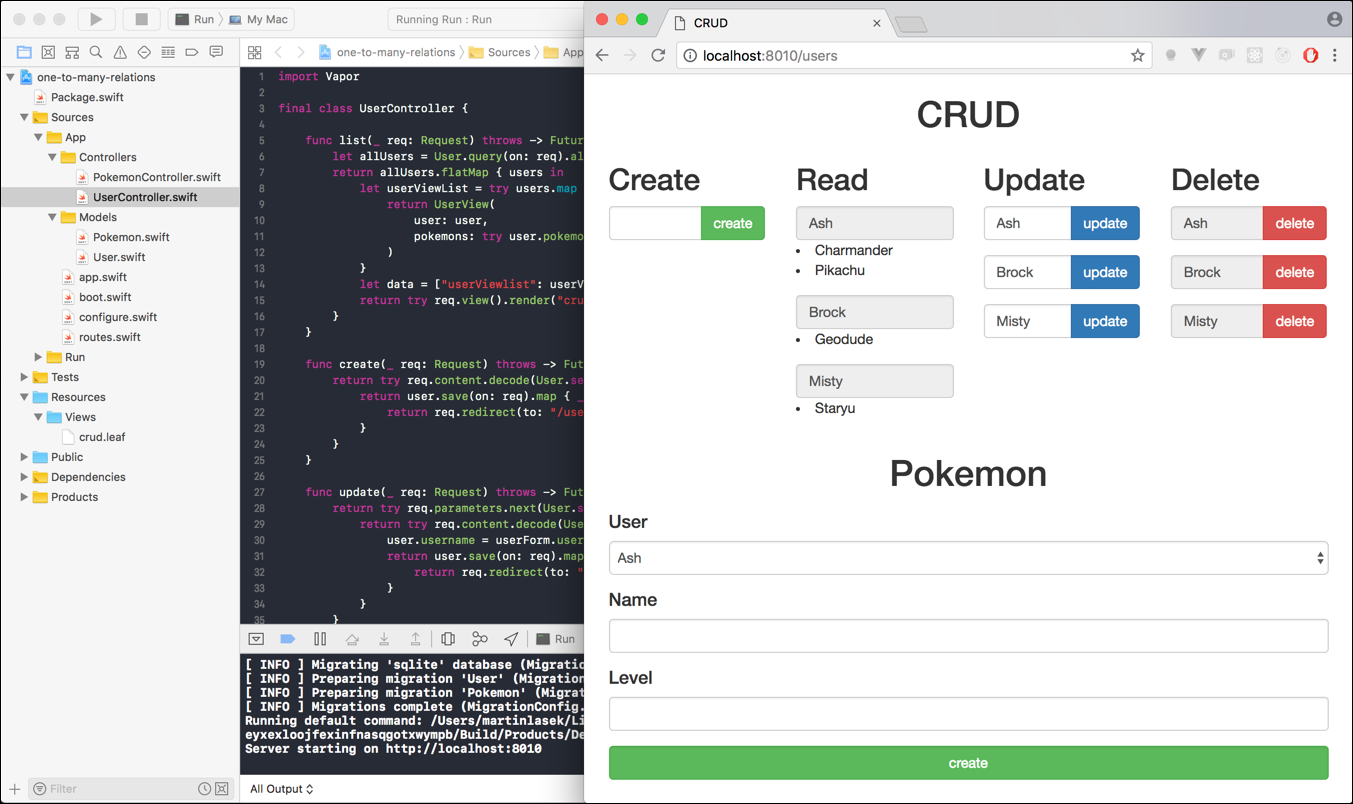
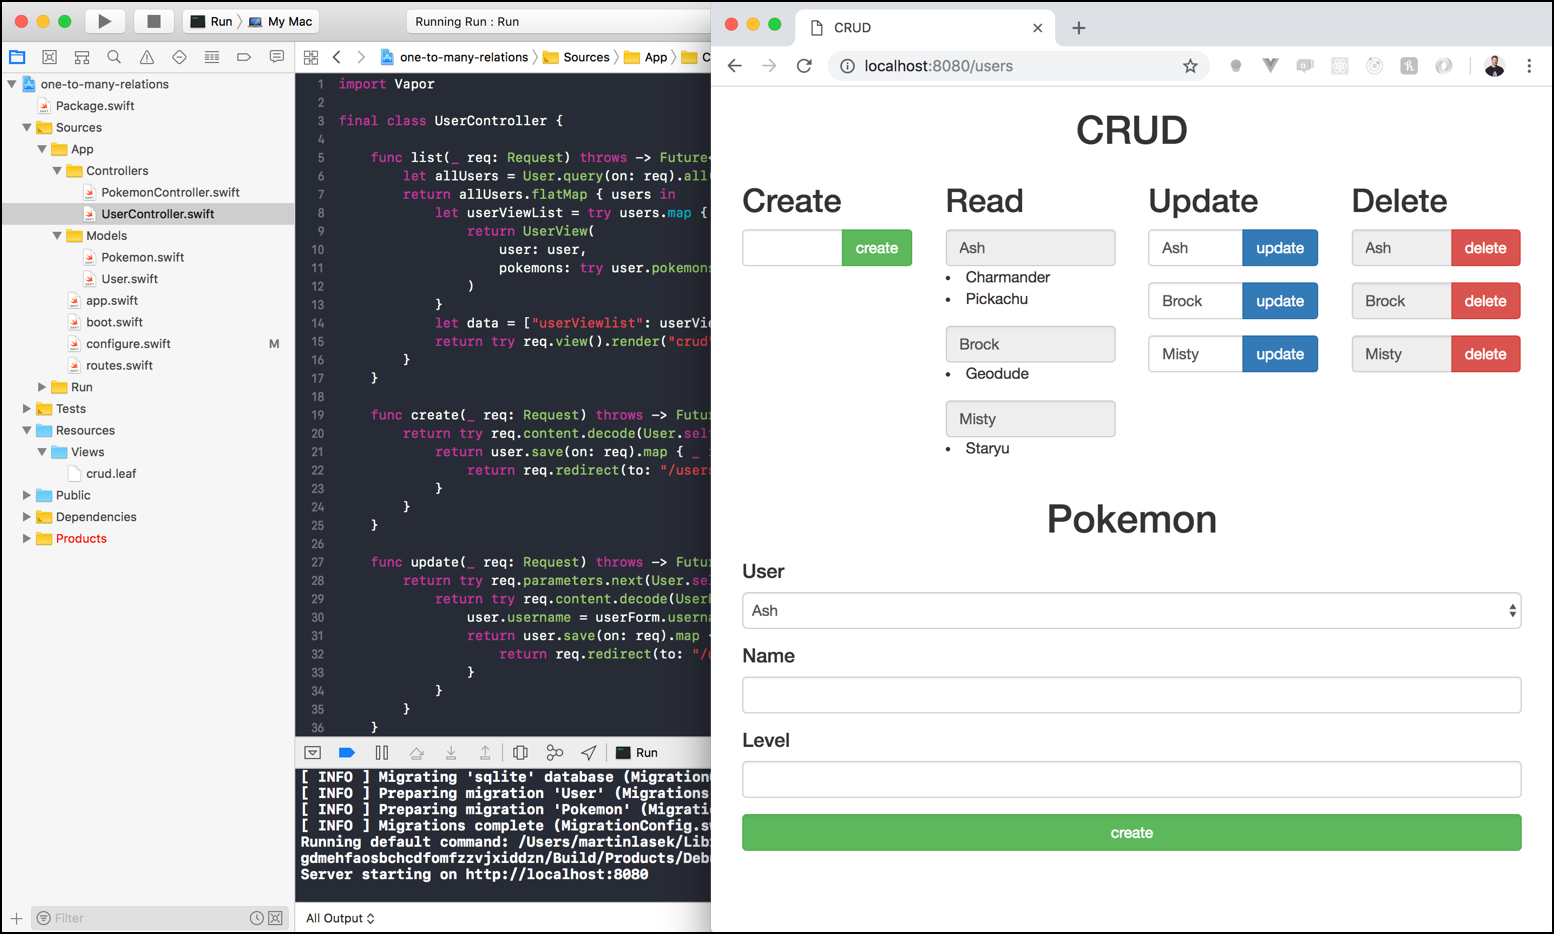
updated port configuration

Changed region(s): [[0.0, 0.0, 1.0, 1.0], [0.6519, 0.5286, 0.7761, 0.6219], [0.6829, 0.1244, 0.7761, 0.1555]]

diff --git a/Sources/App/configure.swift b/Sources/App/configure.swift
@@ -13,10 +13,8 @@ public func configure(
     try routes(router)
     services.register(router, as: Router.self)
 
-    let myService = NIOServerConfig.default(port: 8010)
-    services.register(myService)
-
-    try services.register(LeafProvider())
+    let leafProvider = LeafProvider()
+    try services.register(leafProvider)
     try services.register(FluentSQLiteProvider())
 
     config.prefer(LeafRenderer.self, for: ViewRenderer.self)
